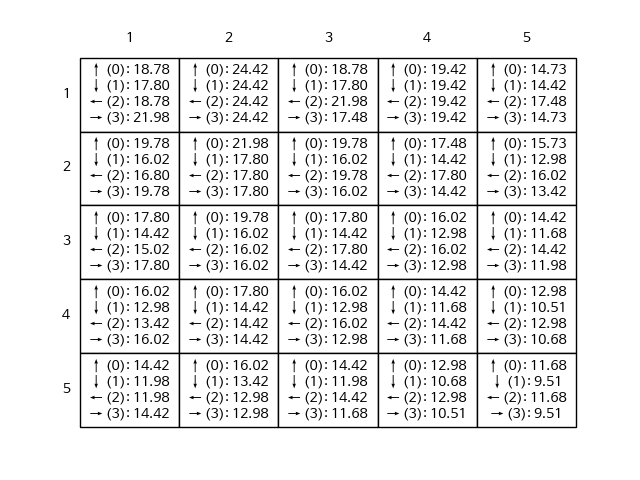
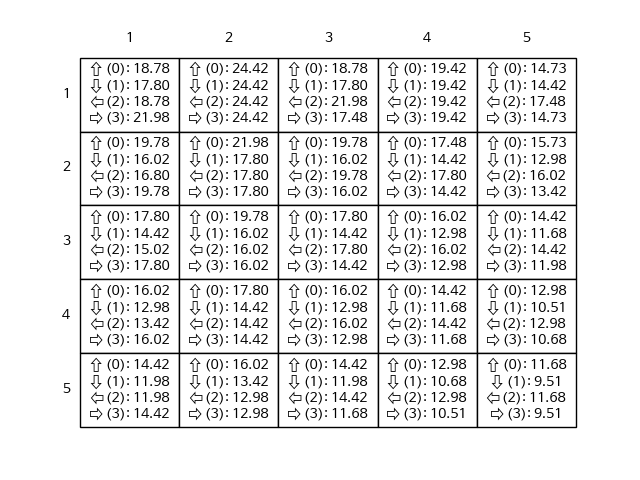
....

diff --git a/basic/practice_4/policy_iteration.py b/basic/practice_4/policy_iteration.py
@@ -1,0 +1,218 @@
+import numpy as np
+import os
+
+from basic.practice_1.gridworld import GridWorld
+from utils.util import softmax, draw_grid_world_policy_image, draw_grid_world_action_values_image
+
+GRID_HEIGHT = 4
+GRID_WIDTH = 4
+TERMINAL_STATES = [(0, 0), (GRID_HEIGHT-1, GRID_WIDTH-1)]
+
+DISCOUNT_RATE = 0.9
+
+THETA_1 = 0.0001
+THETA_2 = 0.0001
+
+MAX_EPISODES = 5000
+
+
+# 정책 반복 클래스
+class PolicyIteration:
+    def __init__(self, env):
+        self.env = env
+
+        self.max_iteration = MAX_EPISODES
+
+        self.terminal_states = [(0, 0), (4, 4)]
+
+        self.state_values = None
+        self.policy = self.generate_random_policy()
+
+        # 정책 평가
+        self.delta = 0.0
+
+        # 정책 평가의 역
+        self.theta = 0.001
+
+    # 모든 상태에서 수행 가능한 행동에 맞춰 임의의 정책을 생성함
+    # 초기에 각 행동의 선택 확률은 모두 같음
+    def generate_random_policy(self):
+        policy = dict()
+
+        for i in range(GRID_HEIGHT):
+            for j in range(GRID_WIDTH):
+                actions = []
+                action_probs = []
+                for action in range(self.env.action_space.NUM_ACTIONS):
+                    actions.append(action)
+                    action_probs.append(0.25)
+                policy[(i, j)] = (actions, action_probs)
+
+        return policy
+
+    # 정책 평가 함수
+    def policy_evaluation(self):
+        # 상태-가치 함수 초기화
+        state_values = np.zeros((GRID_HEIGHT, GRID_WIDTH))
+
+        # 가치 함수의 값들이 수렴할 때까지 반복
+        iter_num = 0
+        while True:
+            old_state_values = state_values.copy()
+
+            for i in range(GRID_HEIGHT):
+                for j in range(GRID_WIDTH):
+                    if (i, j) in TERMINAL_STATES:
+                        state_values[i][j] = 0.0
+                    else:
+                        values = []
+                        for action in self.env.action_space.ACTIONS:
+                            (next_i, next_j), reward, prob = self.env.get_state_action_probability(state=(i, j), action=action)
+
+                            _, action_probs = self.policy[(i, j)]
+
+                            # Bellman-Equation, 벨만 방정식 적용
+                            values.append(
+                                action_probs[action] * prob * (reward + DISCOUNT_RATE * old_state_values[next_i, next_j])
+                            )
+
+                        state_values[i][j] = np.sum(values)
+
+            iter_num += 1
+
+            # 갱신되는 값이 THETA_1(=0.0001)을 기준으로 수렴하는지 판정
+            max_delta_value = abs(old_state_values - state_values).max()
+            if max_delta_value < THETA_1:
+                break
+
+        self.state_values = state_values
+
+        return iter_num
+
+    # 정책 개선 함수
+    def policy_improvement(self):
+        new_policy = dict()
+
+        is_policy_stable = True
+
+        # 행동-가치 함수 생성
+        for i in range(GRID_HEIGHT):
+            for j in range(GRID_WIDTH):
+                if (i, j) in TERMINAL_STATES:
+                    actions = []
+                    action_probs = []
+                    for action in range(self.env.action_space.NUM_ACTIONS):
+                        actions.append(action)
+                        action_probs.append(0.25)
+                    new_policy[(i, j)] = (actions, action_probs)
+                else:
+                    actions = []
+                    q_func = []
+                    for action in self.env.action_space.ACTIONS:
+                        actions.append(action)
+                        (next_i, next_j), reward, prob = self.env.get_state_action_probability(state=(i, j), action=action)
+                        q_func.append(
+                            prob * (reward + DISCOUNT_RATE * self.state_values[next_i, next_j])
+                        )
+
+                    new_policy[(i, j)] = (actions, softmax(q_func))
+
+        error = 0.0
+        for i in range(GRID_HEIGHT):
+            for j in range(GRID_WIDTH):
+                error += np.sum(np.absolute(np.array(self.policy[(i, j)][1]) - np.array(new_policy[(i, j)][1])))
+
+        if error > THETA_2:
+            is_policy_stable = False
+
+        self.policy = new_policy
+
+        return is_policy_stable, error
+
+    # 정책 반복 함수
+    def start_iteration(self):
+        iter_num = 0
+
+        # 정책의 안정성 검증
+        is_policy_stable = False
+
+        print("[[[ 정책 반복 시작! ]]]")
+        while not is_policy_stable and iter_num < self.max_iteration:
+            iter_num_policy_evaluation = self.policy_evaluation()
+            print("*** 정책 평가 [수렴까지 누적 반복 횟수: {0}] ***".format(iter_num_policy_evaluation))
+
+            is_policy_stable, error = self.policy_improvement()
+            print("*** 정책 개선 [에러 값: {0:7.5f}] ***".format(error))
+
+            iter_num += 1
+            print("*** 정책의 안정(Stable) 여부: {0}, 반복 횟수: {1} ***\n".format(
+                is_policy_stable,
+                iter_num
+            ))
+        print("[[[ 정책 반복 종료! ]]]\n\n")
+
+        return self.state_values, self.policy
+
+    def calculate_optimal_policy(self):
+        optimal_policy = dict()
+        for i in range(GRID_HEIGHT):
+            for j in range(GRID_WIDTH):
+                max_ = np.max(self.policy[i, j][1])
+                arg_max_ = np.nonzero(self.policy[i, j][1] == max_)
+                indices = arg_max_[0]
+                optimal_policy[(i, j)] = indices
+
+        return optimal_policy
+
+    def calculate_grid_world_optimal_action_values(self):
+        action_value_function = np.zeros((GRID_HEIGHT, GRID_WIDTH, self.env.action_space.NUM_ACTIONS))
+        for i in range(GRID_HEIGHT):
+            for j in range(GRID_WIDTH):
+                # 주어진 상태에서 가능한 모든 행동들의 결과로 다음 상태 및 보상 정보 갱신
+                for action in self.env.action_space.ACTIONS:
+                    (next_i, next_j), reward, prob = self.env.get_state_action_probability(state=(i, j), action=action)
+
+                    action_value_function[i, j, action] = \
+                        prob * (reward + DISCOUNT_RATE * self.state_values[next_i, next_j])
+
+        return action_value_function
+
+
+def main():
+    # 그리드 월드 환경 객체 생성
+    env = GridWorld(
+        height=GRID_HEIGHT,
+        width=GRID_WIDTH,
+        start_state=(0, 0),
+        terminal_states=TERMINAL_STATES,
+        transition_reward=-1.0,
+        terminal_reward=-1.0,
+        outward_reward=-1.0
+    )
+    env.reset()
+
+    PI = PolicyIteration(env)
+    PI.start_iteration()
+
+    print(PI.state_values, end="\n\n")
+
+    draw_grid_world_action_values_image(
+        PI.calculate_grid_world_optimal_action_values(),
+        'images/grid_world_optimal_action_values.png',
+        GRID_HEIGHT, GRID_WIDTH,
+        env.action_space.NUM_ACTIONS,
+        env.action_space.ACTION_SYMBOLS
+    )
+
+    draw_grid_world_policy_image(
+        PI.calculate_optimal_policy(),
+        "images/grid_world_optimal_policy.png",
+        GRID_HEIGHT, GRID_WIDTH, env.action_space.ACTION_SYMBOLS
+    )
+
+
+if __name__ == "__main__":
+    if not os.path.exists('images/'):
+        os.makedirs('images/')
+
+    main()

diff --git a/basic/practice_4/value_iteration.py b/basic/practice_4/value_iteration.py
@@ -1,0 +1,129 @@
+import numpy as np
+from environments.gridworld import GridWorld
+from utils.util import softmax
+
+GRID_HEIGHT = 4
+GRID_WIDTH = 4
+TERMINAL_STATES = [(0, 0), (GRID_HEIGHT-1, GRID_WIDTH-1)]
+
+DISCOUNT_RATE = 1.0
+THETA_1 = 0.0001
+THETA_2 = 0.0001
+MAX_EPISODES = 5000
+
+
+# 정책 반복 클래스
+class ValueIteration:
+    def __init__(self, env):
+        self.env = env
+
+        self.max_iteration = MAX_EPISODES
+
+        self.terminal_states = [(0, 0), (4, 4)]
+
+        self.state_values = None
+        self.policy = np.empty([GRID_HEIGHT, GRID_WIDTH, self.env.action_space.num_actions])
+
+        for i in range(GRID_HEIGHT):
+            for j in range(GRID_WIDTH):
+                for action in self.env.action_space.ACTIONS:
+                    if (i, j) in TERMINAL_STATES:
+                        self.policy[i][j][action] = 0.00
+                    else:
+                        self.policy[i][j][action] = 0.25
+
+        # 정책 평가
+        self.delta = 0.0
+
+        # 정책 평가의 역
+        self.theta = 0.001
+
+    # 정책 평가 함수
+    def value_evaluation(self):
+        # 상태-가치 함수 초기화
+        state_values = np.zeros((GRID_HEIGHT, GRID_WIDTH))
+
+        # 가치 함수의 값들이 수렴할 때까지 반복
+        iter_num = 0
+        while True:
+            old_state_values = state_values.copy()
+
+            for i in range(GRID_HEIGHT):
+                for j in range(GRID_WIDTH):
+                    if (i, j) in TERMINAL_STATES:
+                        state_values[i][j] = 0.0
+                    else:
+                        values = []
+                        for action in self.env.action_space.ACTIONS:
+                            (next_i, next_j), reward, prob = env.get_state_action_probability(state=(i, j), action=action)
+
+                            # Bellman-Equation, 벨만 방정식 적용
+                            values.append(
+                                prob * (reward + DISCOUNT_RATE * state_values[next_i, next_j])
+                            )
+
+                        state_values[i][j] = np.max(values)
+
+            iter_num += 1
+
+            # 갱신되는 값이 THETA_1(=0.0001)을 기준으로 수렴하는지 판정
+            max_delta_value = abs(old_state_values - state_values).max()
+            if max_delta_value < THETA_1:
+                break
+
+        self.state_values = state_values
+
+        return iter_num
+
+    # 정책 개선 함수
+    def policy_setup(self):
+        # 행동-가치 함수 생성
+        for i in range(GRID_HEIGHT):
+            for j in range(GRID_WIDTH):
+                if (i, j) in TERMINAL_STATES:
+                    for action in self.env.action_space.ACTIONS:
+                        self.policy[i][j][action] = 0.0
+                else:
+                    q_func = []
+                    for action in self.env.action_space.ACTIONS:
+                        (next_i, next_j), reward, prob = env.get_state_action_probability(state=(i, j), action=action)
+                        q_func.append(
+                            prob * (reward + DISCOUNT_RATE * self.state_values[next_i, next_j])
+                        )
+
+                    self.policy[i][j] = softmax(q_func)
+
+    # 정책 반복 함수
+    def start_iteration(self):
+        iter_num = 0
+
+        iter_num_policy_evaluation = self.value_evaluation()
+        print("*** 가치 평가 [수렴까지 누적 반복 횟수: {0}] ***".format(iter_num_policy_evaluation))
+
+        self.policy_setup()
+        print("*** 정책 셋업 완료 ***")
+
+        return self.state_values, self.policy
+
+
+if __name__ == '__main__':
+    # 그리드 월드 환경 객체 생성
+    env = GridWorld(
+        height=GRID_HEIGHT,
+        width=GRID_WIDTH,
+        start_state=(0, 0),
+        terminal_states=TERMINAL_STATES,
+        transition_reward=-1.0,
+        terminal_reward=-1.0,
+        outward_reward=-1.0
+    )
+    env.reset()
+
+    VI = ValueIteration(env)
+    VI.start_iteration()
+    print(VI.state_values, end="\n\n")
+
+    for i in range(GRID_HEIGHT):
+        for j in range(GRID_WIDTH):
+            print(i, j, VI.policy[i][j])  # UP, DOWN, LEFT, RIGHT
+        print()

diff --git a/basic/practice_3/optimal_action_values_and_optimal_policy.py b/basic/practice_3/optimal_action_values_and_optimal_policy.py
@@ -8,8 +8,6 @@ from utils.util import draw_grid_world_action_values_image, draw_grid_world_poli
 
 GRID_HEIGHT = 5
 GRID_WIDTH = 5
-NUM_ACTIONS = 4
-
 DISCOUNT_RATE = 0.9      # 감쇄율
 
 A_POSITION = (0, 1)         # 임의로 지정한 특별한 상태 A 좌표
@@ -21,7 +19,7 @@ B_PRIME_POSITION = (2, 3)   # 상태 B에서 행동시 도착할 위치 좌표
 
 # 그리드 월드에서 최적 행동 가치 산출
 def calculate_grid_world_optimal_action_values(env):
-    action_value_function = np.zeros((GRID_HEIGHT, GRID_WIDTH, NUM_ACTIONS))
+    action_value_function = np.zeros((GRID_HEIGHT, GRID_WIDTH, env.action_space.NUM_ACTIONS))
 
     # 행동 가치 함수의 값들이 수렴할 때까지 반복
     while True:
@@ -76,7 +74,9 @@ def main():
 
     draw_grid_world_action_values_image(
         optimal_action_values, 'images/grid_world_optimal_action_values.png',
-        GRID_HEIGHT, GRID_WIDTH, NUM_ACTIONS, env.action_space.ACTION_SYMBOLS
+        GRID_HEIGHT, GRID_WIDTH,
+        env.action_space.NUM_ACTIONS,
+        env.action_space.ACTION_SYMBOLS
     )
 
     print()
@@ -84,7 +84,8 @@ def main():
     optimal_policy = calculate_optimal_policy(optimal_action_values)
     draw_grid_world_policy_image(
         optimal_policy, "images/grid_world_optimal_policy.png",
-        GRID_HEIGHT, GRID_WIDTH, env.action_space.ACTION_SYMBOLS
+        GRID_HEIGHT, GRID_WIDTH,
+        env.action_space.ACTION_SYMBOLS
     )
 
 

diff --git a/basic/practice_1/gridworld.py b/basic/practice_1/gridworld.py
@@ -56,7 +56,8 @@ class GridWorld(gym.Env):
             self.action_space.ACTION_RIGHT
         ]
 
-        self.action_space.ACTION_SYMBOLS = ["\u2191", "\u2193", "\u2190", "\u2192"]
+        self.action_space.ACTION_SYMBOLS = ["\u21E7", "\u21E9", "\u21E6", "\u21E8"] # UP, DOWN, LEFT, RIGHT
+        #self.action_space.ACTION_SYMBOLS = ["\u2191", "\u2193", "\u2190", "\u2192"] # UP, DOWN, LEFT, RIGHT
         self.action_space.NUM_ACTIONS = len(self.action_space.ACTIONS)
 
         # 시작 상태 위치
